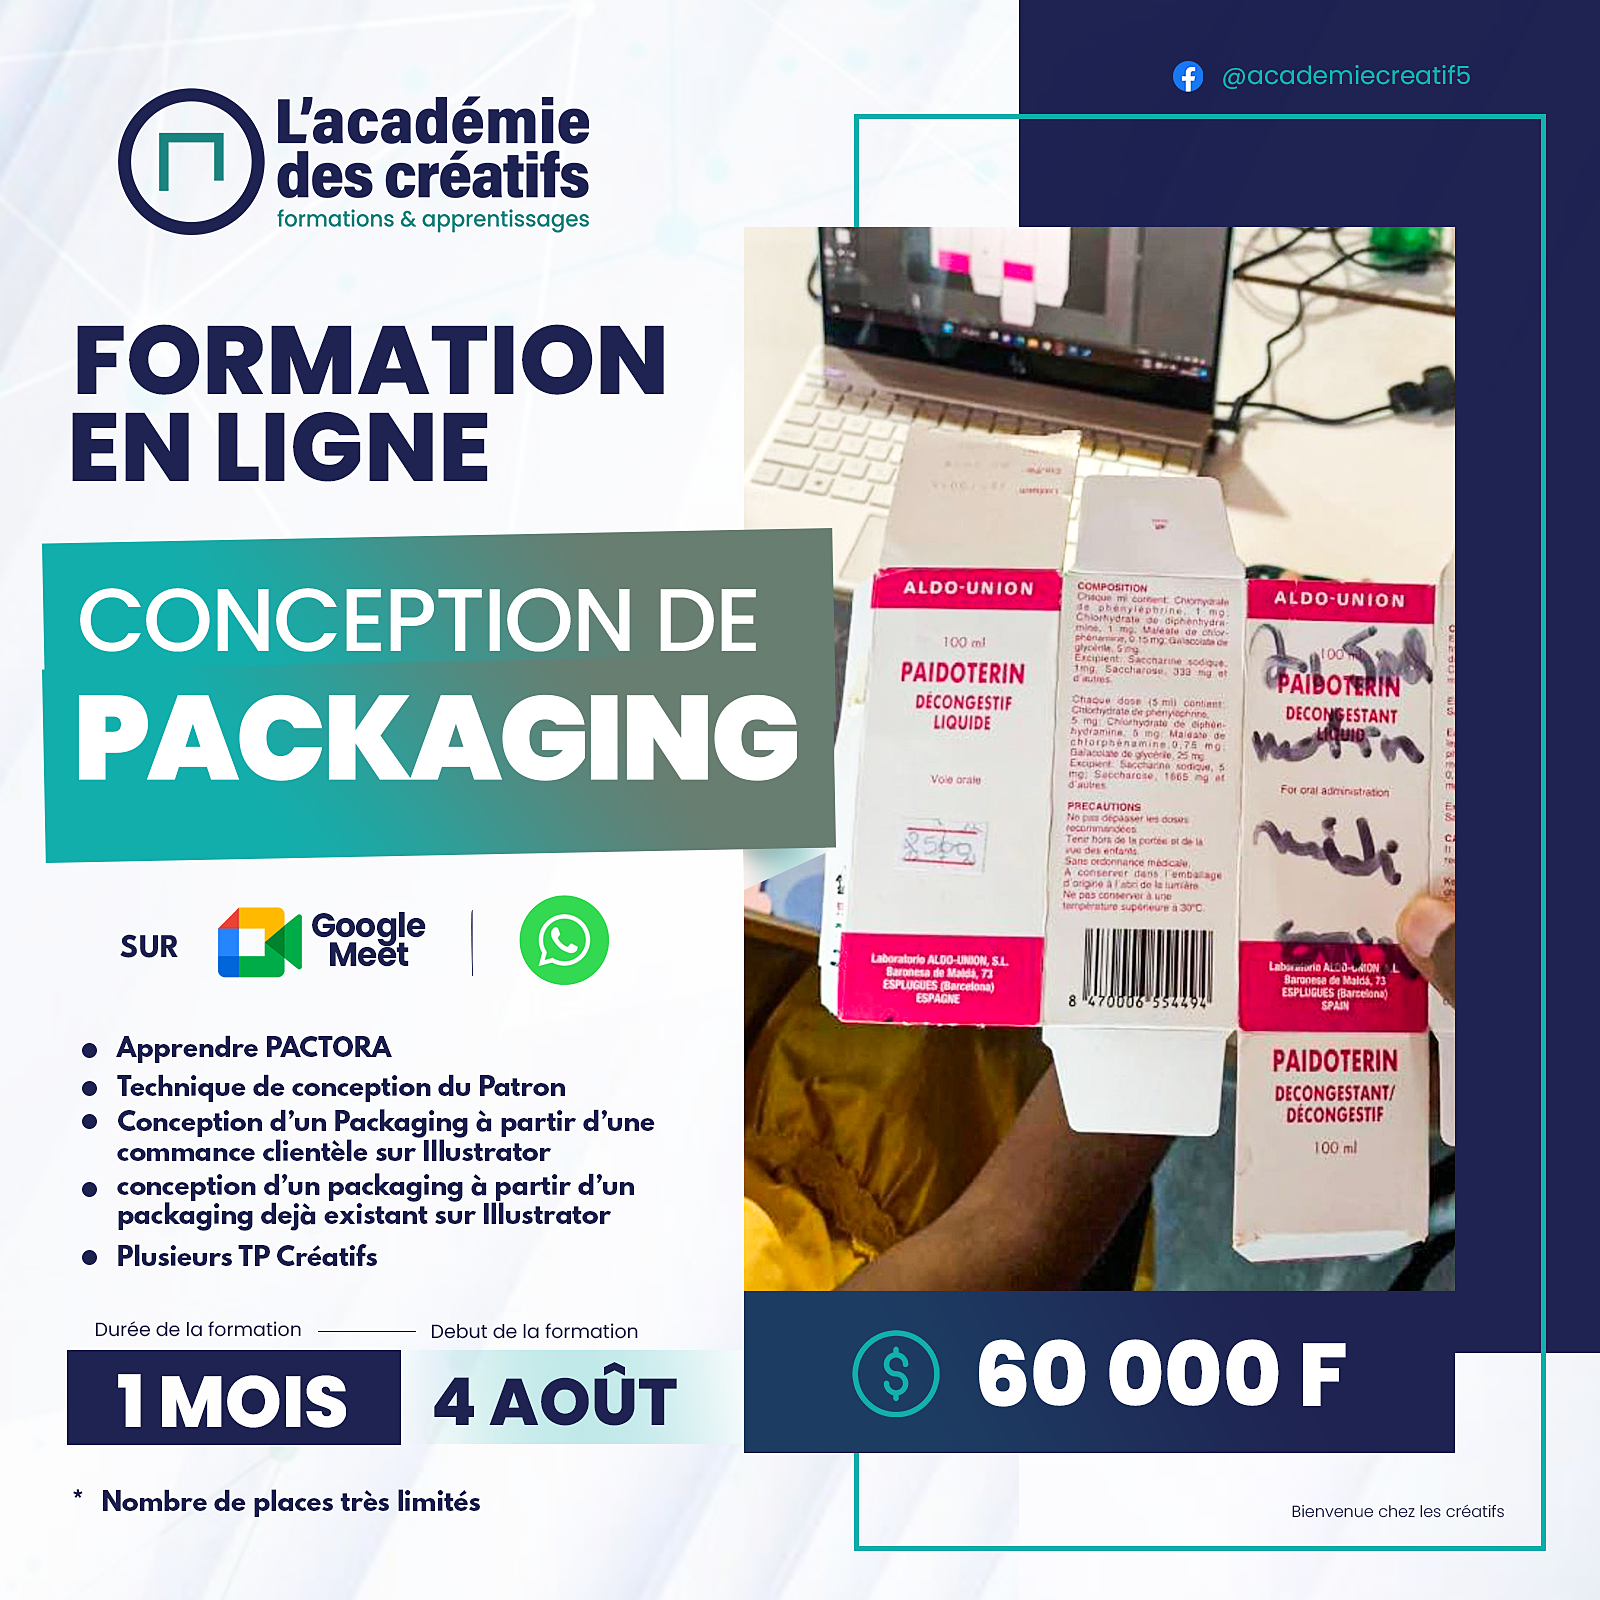
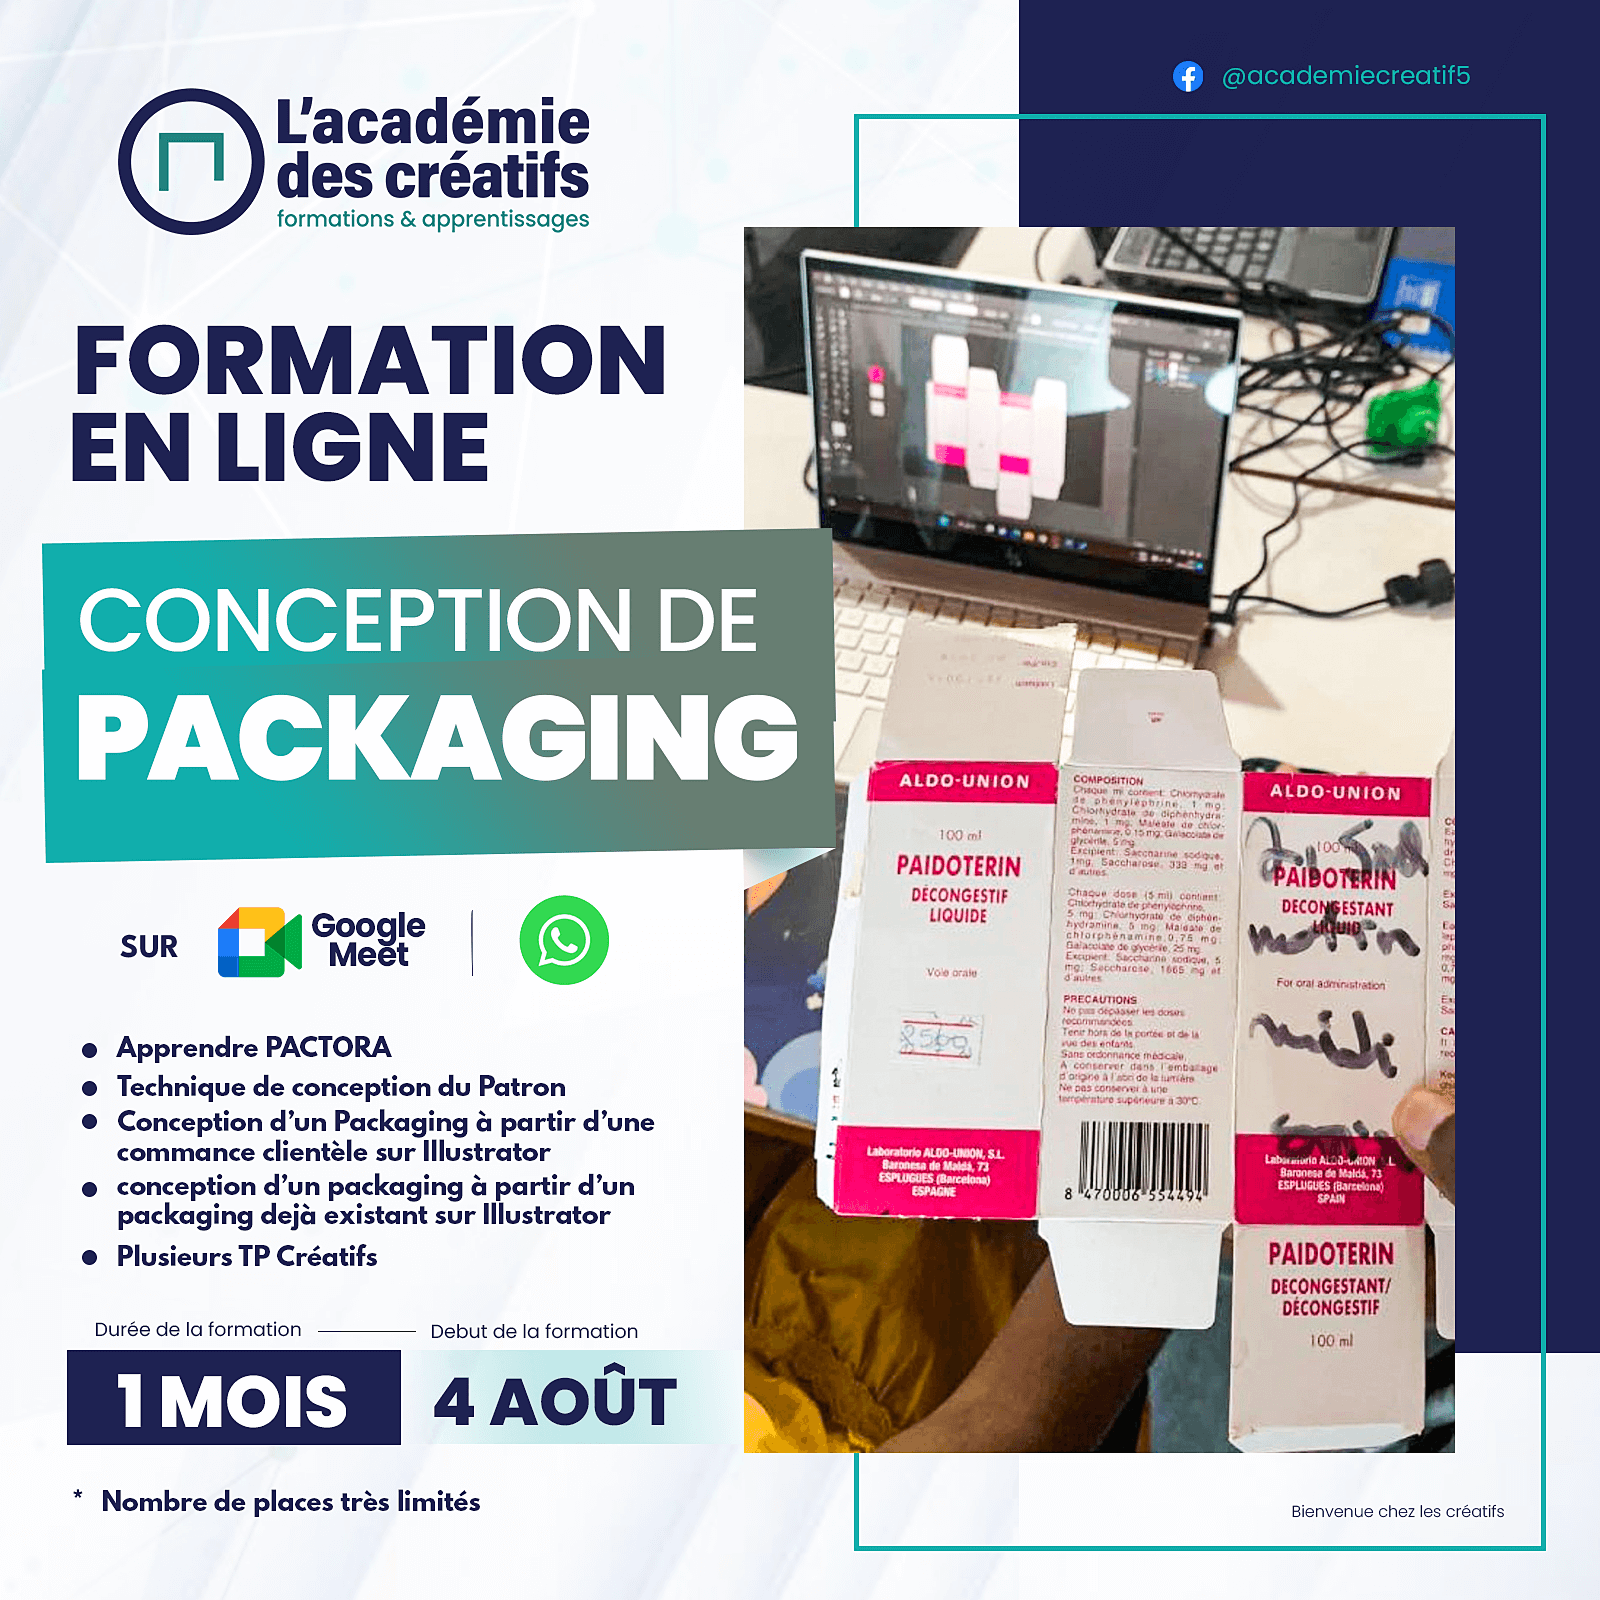
ok

Changed region(s): [[0.4375, 0.125, 0.9375, 0.9062]]

diff --git a/detail-formation-1.html b/detail-formation-1.html
@@ -71,18 +71,19 @@
                     <div class="back-btn">
                         <a href="index.html"><i class="fa-solid fa-arrow-left"></i> Retour</a>
                     </div>
-                    <h1>formation en Marketing Digital : Spécial Tiktok</h1>
-                    <p>La méthode éfficace pour devenir un influenceur TikTok. Bâtissez votre influence et monétisez
-                        votre audience..</p>
+                    <h1>formation complète en conception de Packaging</h1>
+                    <p>La méthode éfficace pour maitriser les tehniques avancées de conceptions des patrons et
+                        comprendre les outils
+                        de modelisation et d'animation des Packaging</p>
                     <div class="video-preview">
-                        <img src="/Flyers/tiktok-flyer.png" alt="Aperçu du cours VueJS">
+                        <img src="/Flyers/Formation-Packaging-academie-creatifs.png" alt="Aperçu du cours VueJS">
                     </div>
 
                     <div class="share-social">
                         <i class="fa-solid fa-share-nodes"></i>
                         <span>Partager sur:</span>
                         <div class="social-icons">
-                            <a href="https://www.facebook.com/sharer/sharer.php?u=https://academiecreatif.netlify.app/detail-formation-1"
+                            <a href="https://www.facebook.com/sharer/sharer.php?u=https://academiecreatif.com/detail-formation-1"
                                 target="_blank" rel="noopener no-referrer"><i class="fa-brands fa-facebook"></i></a>
 
                         </div>
@@ -94,9 +95,9 @@
                     <ul>
                         <li><i class="fas fa-check"></i> 1 mois de formation</li>
                         <li><i class="fas fa-check"></i> 4 Modules à apprendre</li>
-                        <li><i class="fas fa-check"></i> 1 projet réels à réaliser</li>
+                        <li><i class="fas fa-check"></i> 3 projets réels à réaliser</li>
                         <li><i class="fas fa-check"></i> Tout pour passer de débutant à PRO</li>
-                        <li><i class="fas fa-check"></i> Formation en ligne via Google Meet </li>
+                        <li><i class="fas fa-check"></i> Formation en ligne</li>
                         <li><i class="fas fa-check"></i> Certificat de fin de formation</li>
                     </ul>
 
@@ -117,7 +118,7 @@
                         <div class="price">
 
                             <span class="price-1">50 000 FCFA</span>
-                            <!-- <span class="original-price">70 000 FCFA</span> -->
+                            <span class="original-price">70 000 FCFA</span>
                         </div>
                     </div>
                     <a href="#" class="cta-button cta-button-payment"
@@ -140,31 +141,34 @@
             <div class="container">
                 <h2>À la fin de ce cours, vous serez capable de...</h2>
                 <ul>
-                    <li><i class="fas fa-check"></i> Maîtriser les fondamentaux de VueJS</li>
-                    <li><i class="fas fa-check"></i> Développer des applications web interactives</li>
-                    <li><i class="fas fa-check"></i> Gérer l'état d'une application avec Vuex</li>
-                    <li><i class="fas fa-check"></i> Créer des Single Page Applications (SPA)</li>
-                    <li><i class="fas fa-check"></i> Utiliser Vue Router pour la navigation</li>
-                    <li><i class="fas fa-check"></i> Interagir avec des API externes</li>
+                    <li><i class="fas fa-check"></i> Maîtriser les outils fondamentaux de Illustrator</li>
+                    <li><i class="fas fa-check"></i> Analyser les briefs clientèles</li>
+                    <li><i class="fas fa-check"></i> Etablir un processus de conception de packaging</li>
+                    <li><i class="fas fa-check"></i> Maitriser les techniques de conception des patrons</li>
+                    <li><i class="fas fa-check"></i> Créer des Packaging partant de zero</li>
+                    <li><i class="fas fa-check"></i> Maitriser les logiciels de prototypages</li>
+
                 </ul>
             </div>
         </section>
 
         <section class="learning-section">
             <div class="container">
-                <h2>Ce que vous apprendrez...</h2>
-                <p>Ce cours complet vous guide à travers les bases de Vue, y compris les directives, les événements, les
-                    liaisons de données, et les composants. Vous apprendrez également des concepts avancés comme Vue
-                    Router pour les SPA et Vuex pour la gestion d'état centralisée.</p>
+                <h2>Quelques TP qui vous attendent.</h2>
+                <div class="container-img">
+                    <img src="/Assets/1.jpg" alt="Ai-packaging">
+                    <img src="/Assets/2.png" alt="Ai-packaging">
+                    <img src="/Assets/3.jpg" alt="Ai-packaging">
+                </div>
             </div>
         </section>
 
         <section class="target-audience-section">
             <div class="container">
                 <h2>Vous vous demandez à qui s'adresse ce cours ?</h2>
-                <p>Ce cours est idéal pour les développeurs débutants ou intermédiaires qui souhaitent apprendre un
-                    framework JavaScript moderne et puissant. Aucune connaissance préalable de VueJS n'est requise, bien
-                    qu'une compréhension de base de HTML, CSS et JavaScript soit recommandée.</p>
+                <p>Cette formation est conçue pour les étudiants en design graphique, les graphistes qui veulent se
+                    spécialiser, les entrepreneurs souhaitant créer le packaging de leurs produits, ainsi que toute
+                    personne passionnée par la créativité et le design.</p>
             </div>
         </section>
 
@@ -174,33 +178,69 @@
                 <div class="accordion">
                     <div class="accordion-item">
                         <div class="accordion-header">
-                            <span>Module 1 : Introduction à VueJS</span>
+                            <span>Module 1 : Initiation aux Packaging</span>
                             <i class="fas fa-chevron-down"></i>
                         </div>
                         <div class="accordion-content">
-                            <p>Contenu du module 1...</p>
+                            <p>1. C'est quoi un Packaging ?</p>
+                            <p>2. Rôle, objectif et enjeux côté graphiste</p>
+                            <p>3. Les types de Packaging</p>
+                            <p>4. Le Patron / Gabarits</p>
+                            <p>5. Où trouver les Patrons</p>
+                            <p>6. Les bons réflexes</p>
+                            <p>7. Le processus créatif d'un Packaging (du brief jusqu’à la conception)</p>
                         </div>
                     </div>
+
                     <div class="accordion-item">
                         <div class="accordion-header">
-                            <span>Module 2 : Les composants</span>
+                            <span>Module 2 : Pacdora</span>
                             <i class="fas fa-chevron-down"></i>
                         </div>
                         <div class="accordion-content">
-                            <p>Contenu du module 2...</p>
+                            <p>1. Prise en main de Pacdora</p>
+                            <p>2. Mise en pratique</p>
                         </div>
                     </div>
+
                     <div class="accordion-item">
                         <div class="accordion-header">
-                            <span>Module 3 : Vue Router et Navigation</span>
+                            <span>Module 3 : Conception des Packaging</span>
                             <i class="fas fa-chevron-down"></i>
                         </div>
                         <div class="accordion-content">
-                            <p>Contenu du module 3...</p>
+                            <p>1. Les techniques de conception des éléments d’un Patron sur Illustrator</p>
+                            <p>2. Conception d’un packaging à partir d’une commande clientèle</p>
+                            <p>3. Conception d’un packaging à partir d’un modèle existant</p>
                         </div>
                     </div>
+
+                    <div class="accordion-item">
+                        <div class="accordion-header">
+                            <span>Module 4 : TP Créatifs</span>
+                            <i class="fas fa-chevron-down"></i>
+                        </div>
+                        <div class="accordion-content">
+                            <p>1. Conception du packaging d’une boîte de vitamines format horizontal linéaire : <b>Norma
+                                    GOLD</b></p>
+                            <p>2. Conception du packaging d’un sachet de détergent : <b>Projet Bingo+</b></p>
+                            <p>3. Conception du packaging d’une boîte de médicament rectangulaire horizontale :
+                                <b>Projet AMZVAL</b></p>
+                        </div>
+                    </div>
+
+                    <div class="accordion-item">
+                        <div class="accordion-header">
+                            <span>Projet de fin de formation</span>
+                            <i class="fas fa-chevron-down"></i>
+                        </div>
+                        <div class="accordion-content">
+                            <p>Un projet global permettant de mettre en pratique toutes les compétences acquises au
+                                cours de la formation.</p>
+                        </div>
+                    </div>
+
                 </div>
-            </div>
         </section>
 
         <section class="certificate-section">
@@ -216,9 +256,17 @@
 
         <section class="market-demand-section">
             <div class="container">
-                <h2>VueJS en fait partir des compétences les plus recherchées sur le marché actuel</h2>
-                <p>Ajoutez VueJS à votre CV pour booster votre carrière de développeur. La demande pour les développeurs
-                    VueJS est en constante augmentation.</p>
+                <h2>Plateforme de formation</h2>
+                <div class="logo-form-contain">
+                    <div class="logo-form">
+                        <img src="Assets/Microsoft_Office_Teams.webp" alt="logo-teams">
+                        <p>Microsoft Teams : <br>cours en LIVE</p>
+                    </div>
+                    <div class="logo-form">
+                        <img src="Assets/whatsapp.png" alt="logo-teams">
+                        <p>whatsapp Group : <br>Pour les TP</p>
+                    </div>
+                </div>
             </div>
         </section>
 
@@ -232,16 +280,16 @@
                             <i class="fas fa-chevron-down"></i>
                         </div>
                         <div class="accordion-content">
-                            <p>Une connaissance de base en HTML, CSS et JavaScript est recommandée.</p>
+                            <p>Une connaissance de base sur Illustrator est recommandée.</p>
                         </div>
                     </div>
                     <div class="accordion-item">
                         <div class="accordion-header">
-                            <span>Combien de temps ai-je accès au cours ?</span>
+                            <span> C'est possible de faire le paiement en tranche ?</span>
                             <i class="fas fa-chevron-down"></i>
                         </div>
                         <div class="accordion-content">
-                            <p>L'accès au cours est illimité et à vie !</p>
+                            <p>Non ! les paiements de moins de 50 000f sont payés en 1 fois</p>
                         </div>
                     </div>
                 </div>

diff --git a/details-style.css b/details-style.css
@@ -514,6 +514,42 @@ h2 {
     width: 100%;
 }
 
+.learning-section img{
+    width: 100%;
+    height: auto;
+    max-width: 300px;
+}
+
+.logo-form-contain{
+    flex-wrap: wrap;
+    display: flex;
+    justify-content: center;
+    align-items: center;
+    gap: 3rem;
+    text-align: center;
+}
+
+.logo-form{
+    align-items: center;
+}
+
+.logo-form-contain .logo-form img{
+    width: 100%;
+    height: auto;
+    max-width: 100px;
+}
+
+.learning-section{
+    flex-wrap: wrap;
+}
+
+.learning-section .container-img{
+    display: flex;
+    justify-content: center;
+    align-items: center;
+    flex-wrap: wrap;
+}
+
 .modal-content .cta-button {
     width: 100%;
     margin-top: 1rem;
@@ -658,6 +694,20 @@ h2 {
     h2 {
         font-size: 1.8rem;
     }
+
+    .logo-form-contain .logo-form img{
+    width: 100%;
+    height: auto;
+    max-width: 60px;
+}
+.logo-form-contain{
+    gap: 2px;
+    text-align: center;
+}
+
+.logo-form p{
+    font-size: 1rem;
+}
 
 }
 

diff --git a/index.html b/index.html
@@ -208,7 +208,7 @@
 
                     <div class="card-bloc"> <!--carte en ligne-1-->
                         <div class="card-image countdown-card" data-end="2025-09-02T10:00:00">
-                            <img src="/Flyers/tiktok-flyer.png" alt="">
+                            <img src="/Flyers/Formation-Packaging-academie-creatifs.png" alt="">
 
 
 
